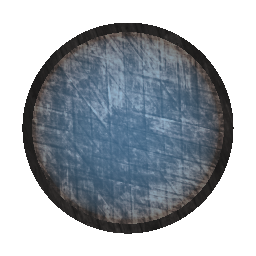
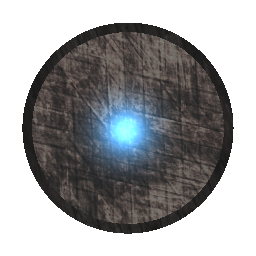
beauty update

diff --git a/src/graphics/Game.cpp b/src/graphics/Game.cpp
@@ -210,8 +210,6 @@ void Game::updateBoardSidedContent(BoardSided board) {
     const sf::Vector2f origin{cx, cy};
     piece.setOrigin(origin);
 
-    const float ratio = ((checkerBoardSize - pieceWidth)/BOARD_DIMENSION);
-    
     // vertical
     for (int x = 0; x < BOARD_DIMENSION+1; x++)
     for (int y = 0; y < BOARD_DIMENSION; y++) {
@@ -219,7 +217,8 @@ void Game::updateBoardSidedContent(BoardSided board) {
 
         if (!cell.isNone()) {
             const sf::Vector2f position{
-                ratio*x + cx,
+                checkerBoardSize * Geometry::adjustSidedPiece(
+                    x, BOARD_DIMENSION, cx/checkerBoardSize),
                 (sideSpace * y) + (sideSpace/2)
             };
 
@@ -240,7 +239,8 @@ void Game::updateBoardSidedContent(BoardSided board) {
         if (!cell.isNone()) {
             const sf::Vector2f position{
                 (sideSpace * x) + (sideSpace/2),
-                ratio*y + cx
+                checkerBoardSize * Geometry::adjustSidedPiece(
+                    y, BOARD_DIMENSION, cx/checkerBoardSize)
             };
 
             piece.setPosition(position);

diff --git a/include/geometry/Geometry.hpp b/include/geometry/Geometry.hpp
@@ -81,4 +81,16 @@ class Geometry {
             );
 
         static sf::FloatRect worldSpaceForShader(sf::RenderWindow *window);
+
+        /*
+            Size = number of cases.
+            x = which sidedposition
+
+            0 <= x <= size
+            relMidWidth = object.sizeX * 0.5 / container
+
+            return a value between 0 and 1 of centered position
+        */
+        static float adjustSidedPiece(int x, int size, float relMidWidth);
+
 };

diff --git a/src/geometry/Geometry.cpp b/src/geometry/Geometry.cpp
@@ -218,3 +218,15 @@ sf::Vector2f Geometry::screenPositionToWorldSpace(sf::Vector2i vector,
         ((float)vector.y * renderZone.height / sy) + renderZone.top
     };
 }
+
+float Geometry::adjustSidedPiece(int x, int size, float relMidWidth) {
+    if (x == 0)
+        return relMidWidth;
+
+    if (x == size)
+        return 1-relMidWidth;
+
+    const auto ratio = 1.0 / size;
+
+    return x * ratio;
+}

diff --git a/src/graphics/ResourcesLoader.cpp b/src/graphics/ResourcesLoader.cpp
@@ -65,7 +65,7 @@ void ResourcesLoader::initializeTextures() {
         make_tuple(PawnBlue, "entity/pawn_blue"),
 
         make_tuple(SideWhite, "entity/side_white"),
-        make_tuple(SideBlack, "entity/side_black"),
+        make_tuple(SideBlack, "entity/side_black_ter"),
         make_tuple(SideQueenWhite, "entity/side_queen_white"),
         make_tuple(SideQueenBlack, "entity/side_queen_black"),
 
